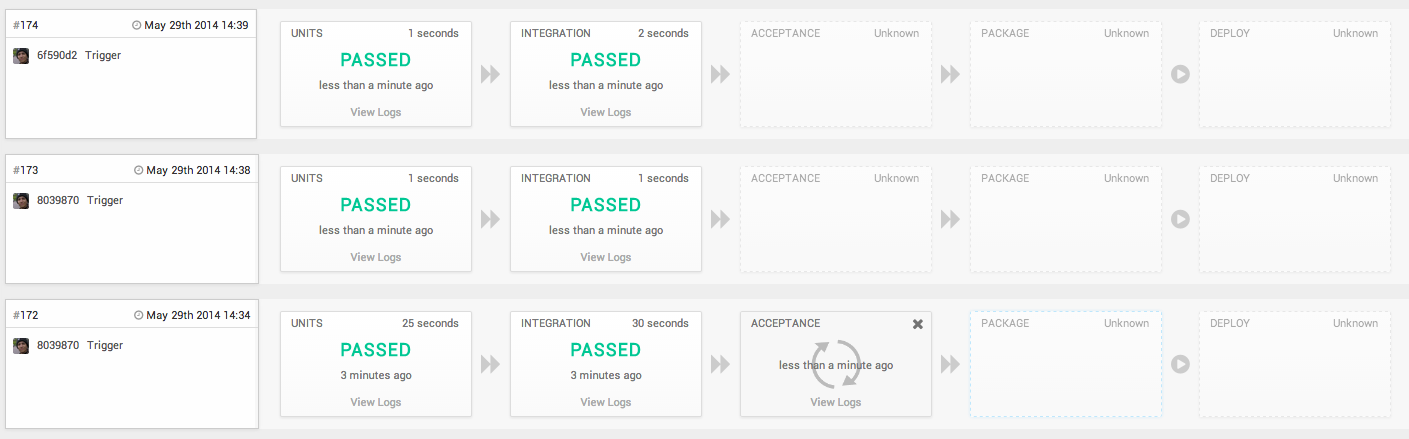
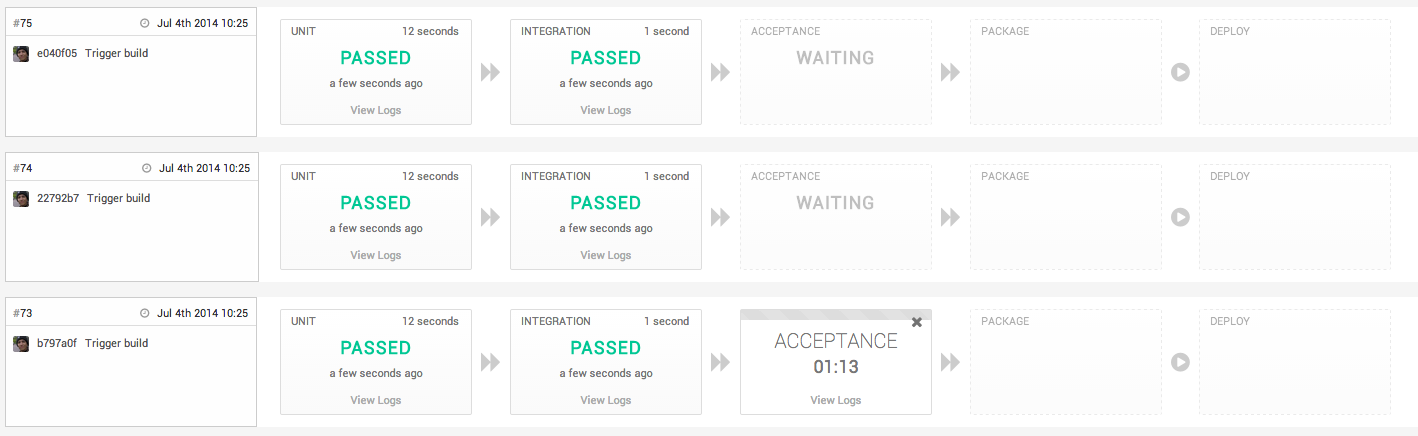
Updated screenshots and doc for parallel builds

diff --git a/topics/55.speeding_up_builds/02.pipeline_parallelism.md b/topics/55.speeding_up_builds/02.pipeline_parallelism.md
@@ -31,8 +31,8 @@ resource outside of Snap-CI, such as database migrations, infrastructure
 configurations and etc.
 
 Pipelines will wait until the completion of the oldest pipeline, in the example
-bellow pipeline **#172** is still running its Acceptance stage, pipelines
-**#173** and **#174** will now wait until this stage is finished in order to
+bellow pipeline **#73** is still running its Acceptance stage, pipelines
+**#74** and **#75** will now wait until this stage is finished in order to
 proceed. However pipelines of your other projects are still capable to run,
 your wait time doesn't account as parallel execution.
 
